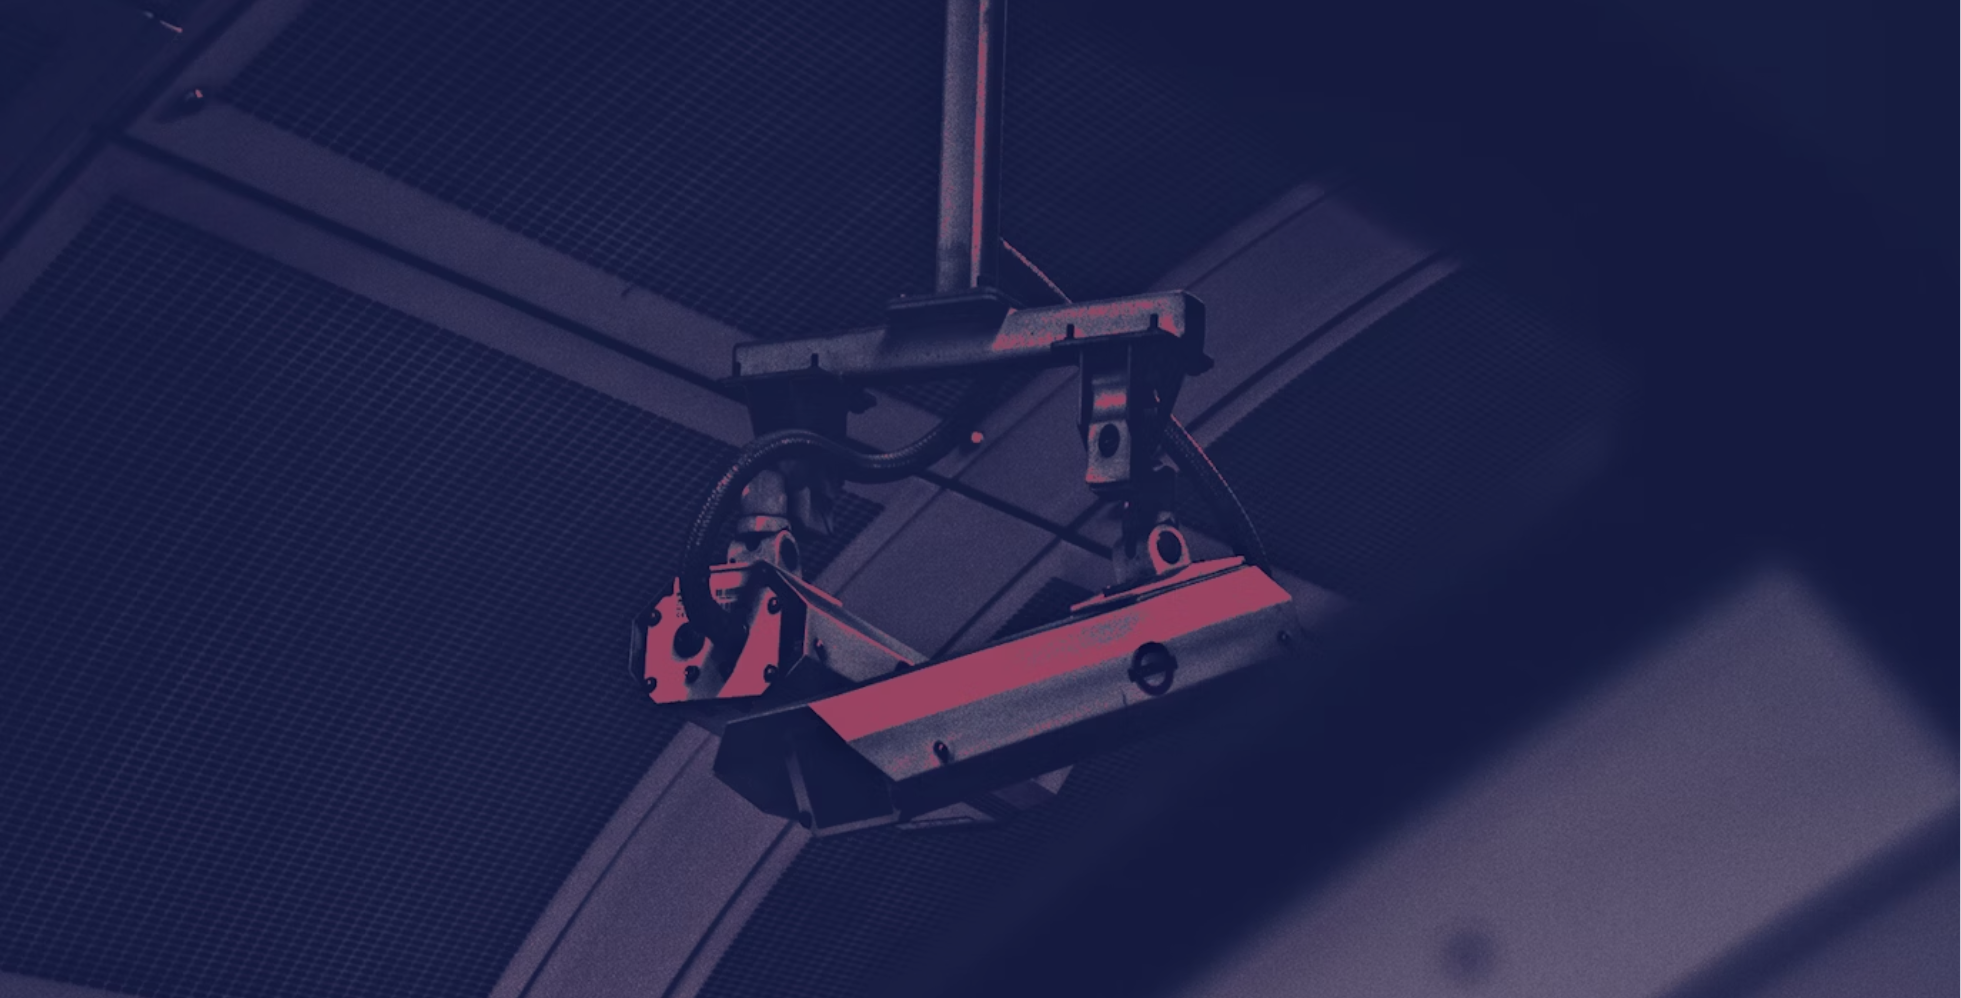
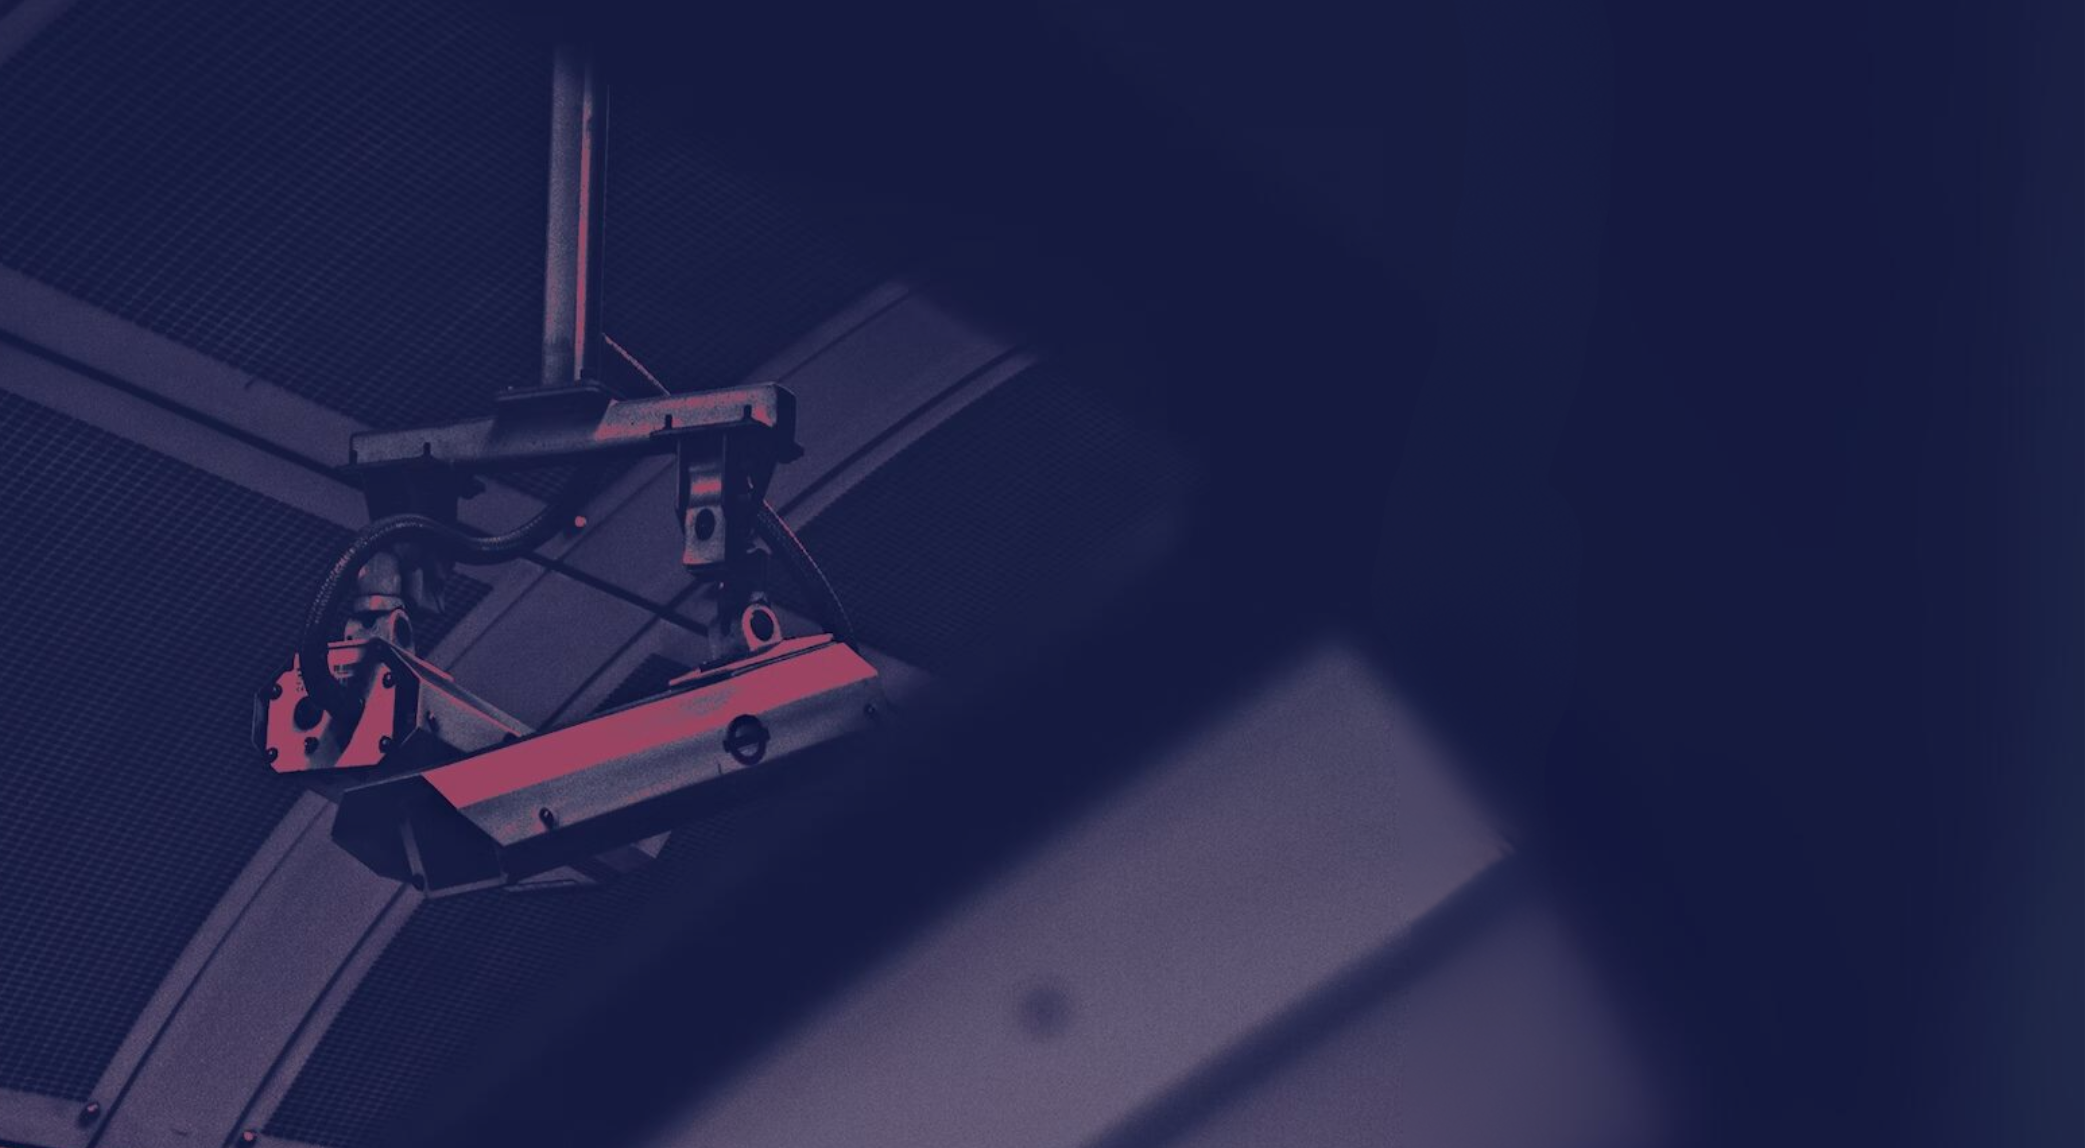
main pg edits

Changed region(s): [[0.0, 0.0621, 0.7466, 1.0], [0.7155, 0.0, 1.0, 1.0], [0.4666, 0.0, 0.5288, 0.2796]]

diff --git a/src/components/HomePage/Main/Main.jsx b/src/components/HomePage/Main/Main.jsx
@@ -15,14 +15,22 @@ const Main = () => {
                 </div> */}
 
                 <div className='mainImg'>
-                    <img src={img} />
+                    {/* <img src={img} /> */}
                 </div>
 
 
                 <div className='mainText'>
 
+                    <div className='mainHeading'>
+                        <strong>
+                            <span className='orange'> Be</span>
+                            <span className='blue'>CAM</span>
+                        </strong>
+                        <br />
+                    </div>
+
                     <div className='mainTagline'>
-                        "Feel <strong className='orange italic'>SAFE</strong> with us"
+                        "feel <strong className='orange italic'>SAFE</strong> with us"
                     </div>
 
                     <div>

diff --git a/src/components/HomePage/Main/Main.css b/src/components/HomePage/Main/Main.css
@@ -25,7 +25,7 @@
 }
 
 .mainHeading{
-    font-size: 48px;
+    font-size: 68px;
 }
 
 .mainText{
@@ -34,15 +34,17 @@
     flex-direction: column;
     justify-content: center;
     align-items: flex-start;
-    gap: 16px;
+    gap: 8px;
     max-width: 370px;
-    text-align: justify;
+    text-align: left;
+    margin-top: 66px;
 }
 
 .mainTagline{
-    font-size: 36px;
+    font-size: 20px;
     /* font-style: italic; */
     /* font-family: ; */
+    margin-bottom: 12px;
 }
 
 .italic{

diff --git a/src/components/HomePage/TrendingProd/TrendingProd.css b/src/components/HomePage/TrendingProd/TrendingProd.css
@@ -2,13 +2,15 @@
     display: flex;
     flex-direction: column;
     /* justify-content: center; */
-    gap: 60px;
-    padding: 32px 0px 80px;
+    gap: 32px;
+    padding: 64px 0px 80px;
 }
 
 .TP_head {
     font-size: 32px;
     color: var(--secondary);
+    text-transform: uppercase;
+    letter-spacing: 5px;
 }
 
 .TP_cardsFlex {
